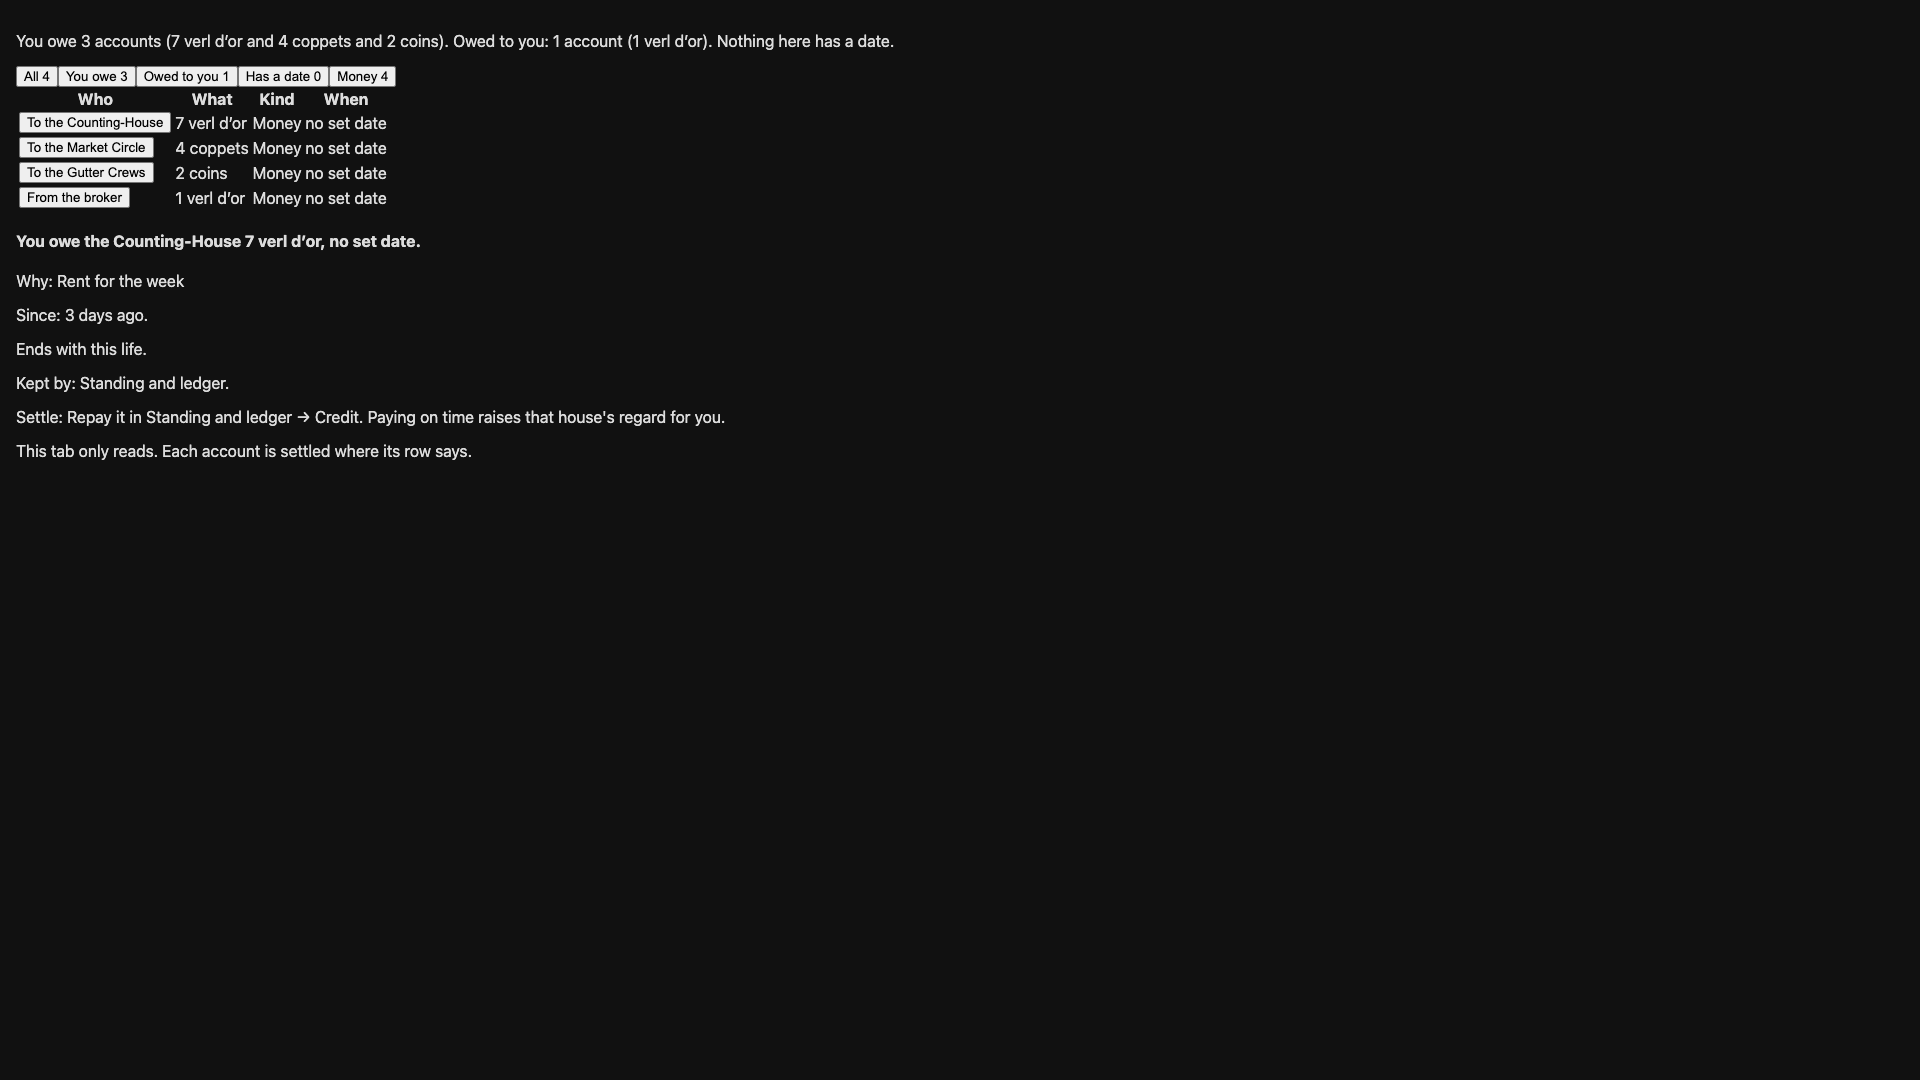
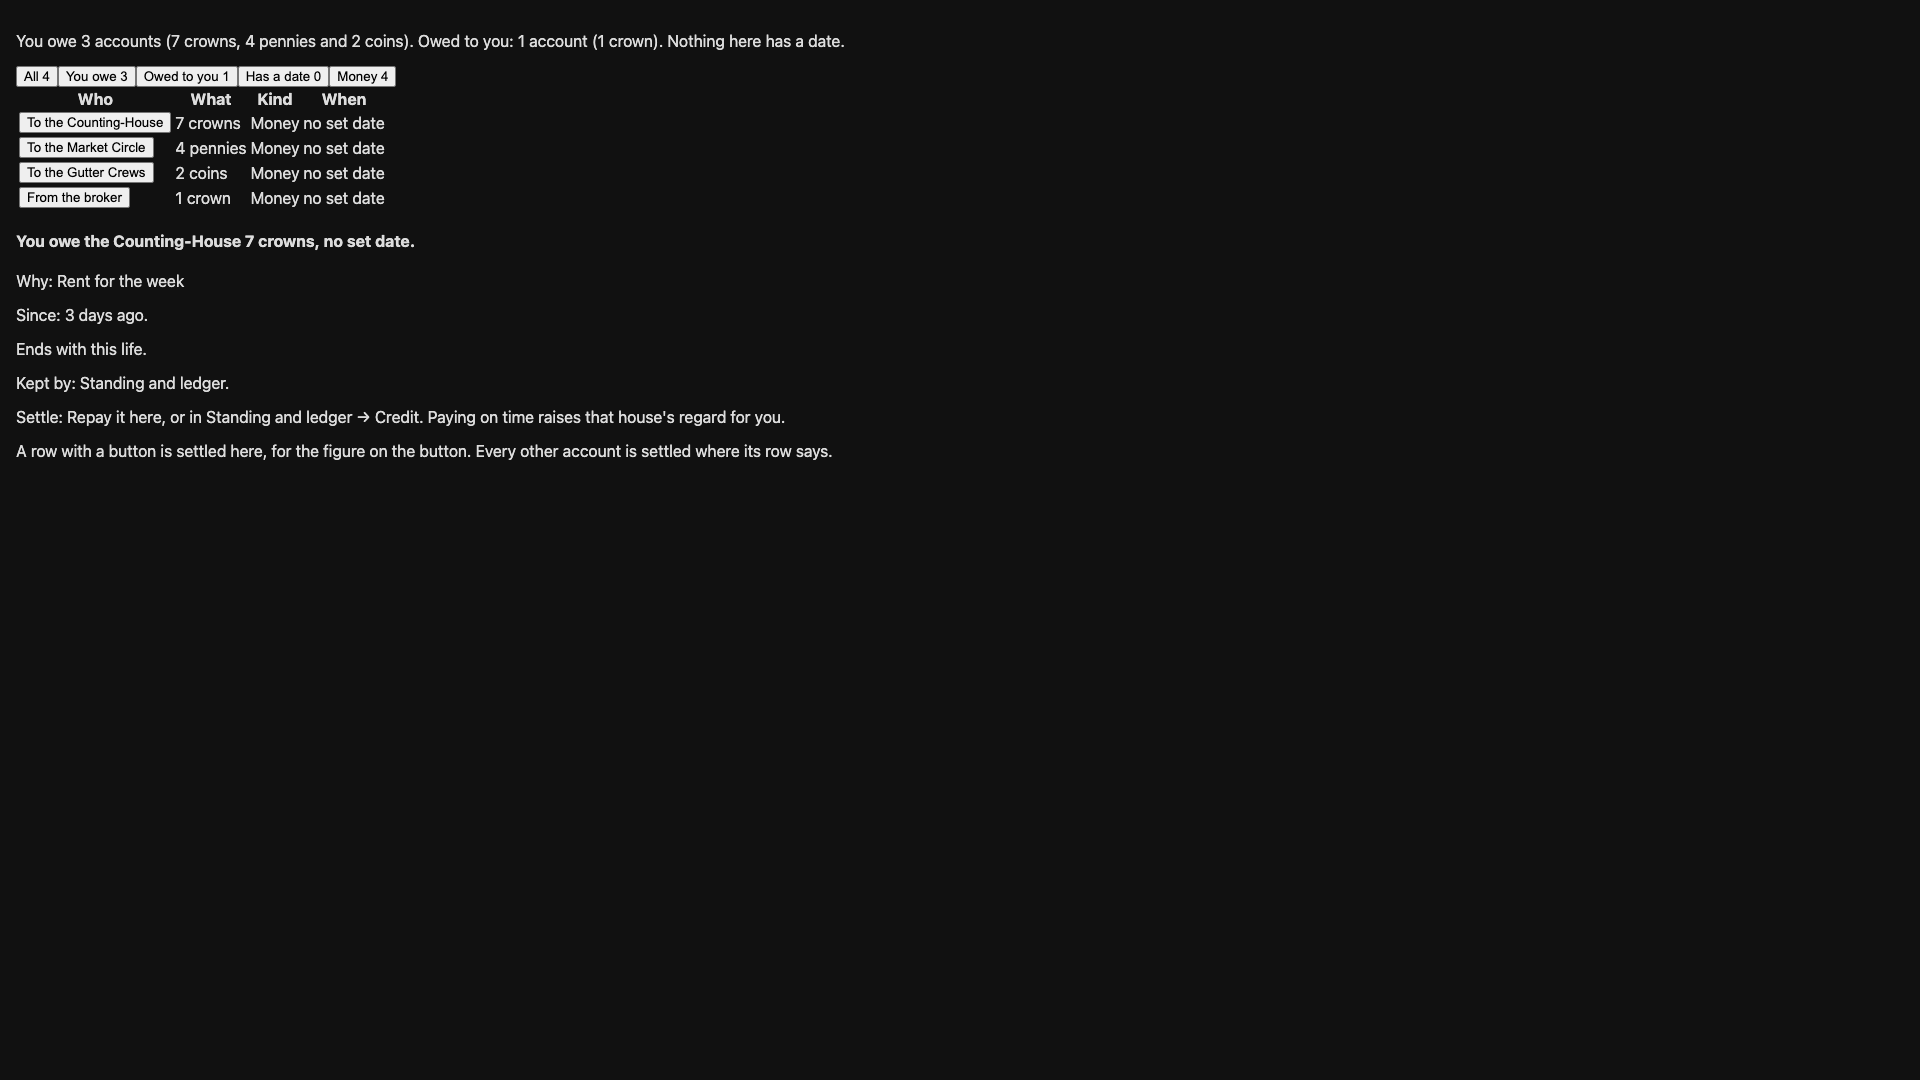
COI owed capture: recaptured with invented currency names (CLR3)

Changed region(s): [[0.0, 0.3667, 0.4375, 0.4278], [0.0938, 0.0917, 0.2188, 0.2444], [0.0938, 0.0306, 0.4688, 0.0611]]

diff --git a/docs/representations/evidence/coi/owed-coi.html b/docs/representations/evidence/coi/owed-coi.html
@@ -8,9 +8,9 @@ import {owedLedgerView, gatherOwed} from '/src/owed_ledger_view.js';
 import {renderOwedLedger} from '/src/ui/owed_ledger.js';
 // Invented rows in the shape of COI priced services (currency names only, no book text). Counts: see COI_NEEDS.md row 1.
 const NOW = 40 * 1440, r = (id, kind, debtor, creditor, amount, why, extra = {}) => ({id, kind, debtor, creditor, amount, why, source: 'economy_standing', since: NOW - 3 * 1440, eases: 0, carries: false, ...extra});
-const rows = [r('credit:counting_house', 'coin', 'player', 'counting_house', 7, 'Rent for the week', {unit: 'crown'}),
+const rows = [r('credit:counting_house', 'coin', 'player', 'counting_house', 7, 'Rent for the week', {unit: {one: 'crown', many: 'crowns'}}),
     r('credit:market_circle', 'coin', 'player', 'market_circle', 4, 'Borrowed for food', {unit: {one: 'penny', many: 'pennies'}}),
-    r('claim:1', 'coin', 'insurer', 'player', 1, 'A lost parcel', {unit: 'crown'}), r('credit:x', 'coin', 'player', 'gutter_crews', 2, 'Borrowed')];
+    r('claim:1', 'coin', 'insurer', 'player', 1, 'A lost parcel', {unit: {one: 'crown', many: 'crowns'}}), r('credit:x', 'coin', 'player', 'gutter_crews', 2, 'Borrowed')];
 const view = owedLedgerView({...gatherOwed({standing: {now: NOW, ledger: rows, factions: [], claims: []}, fortunes: [], grudge: null}), now: NOW, selected: 'credit:counting_house'});
 renderOwedLedger(document.getElementById('host'), view);
 document.title = view.summary;
